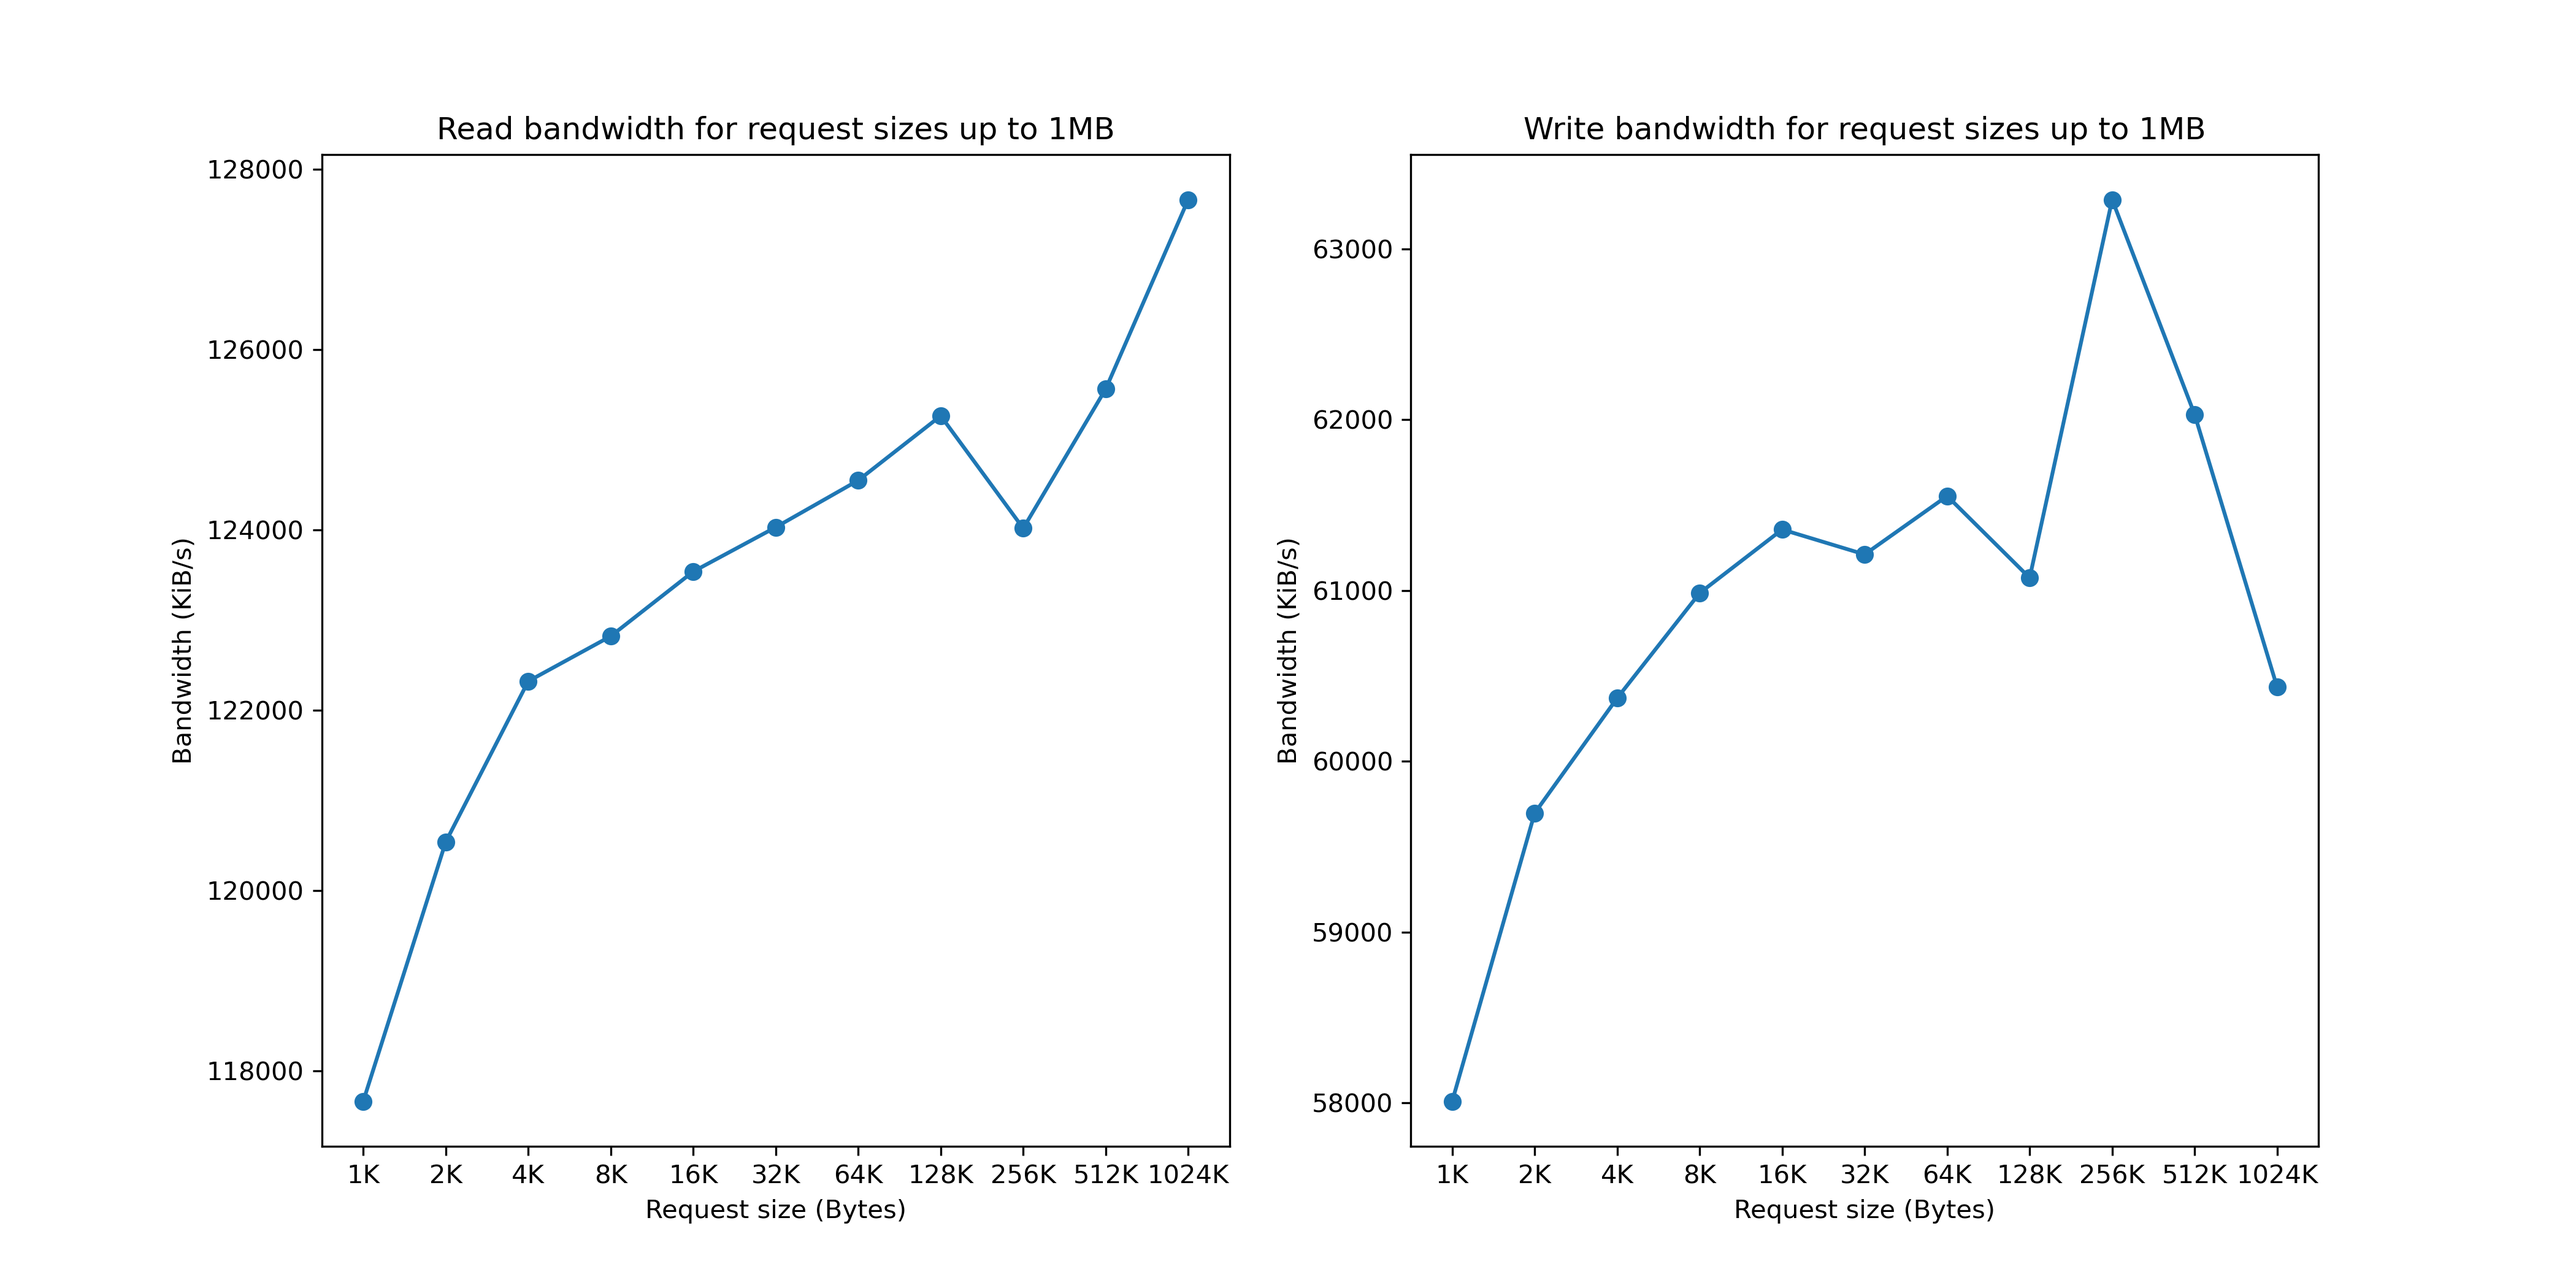
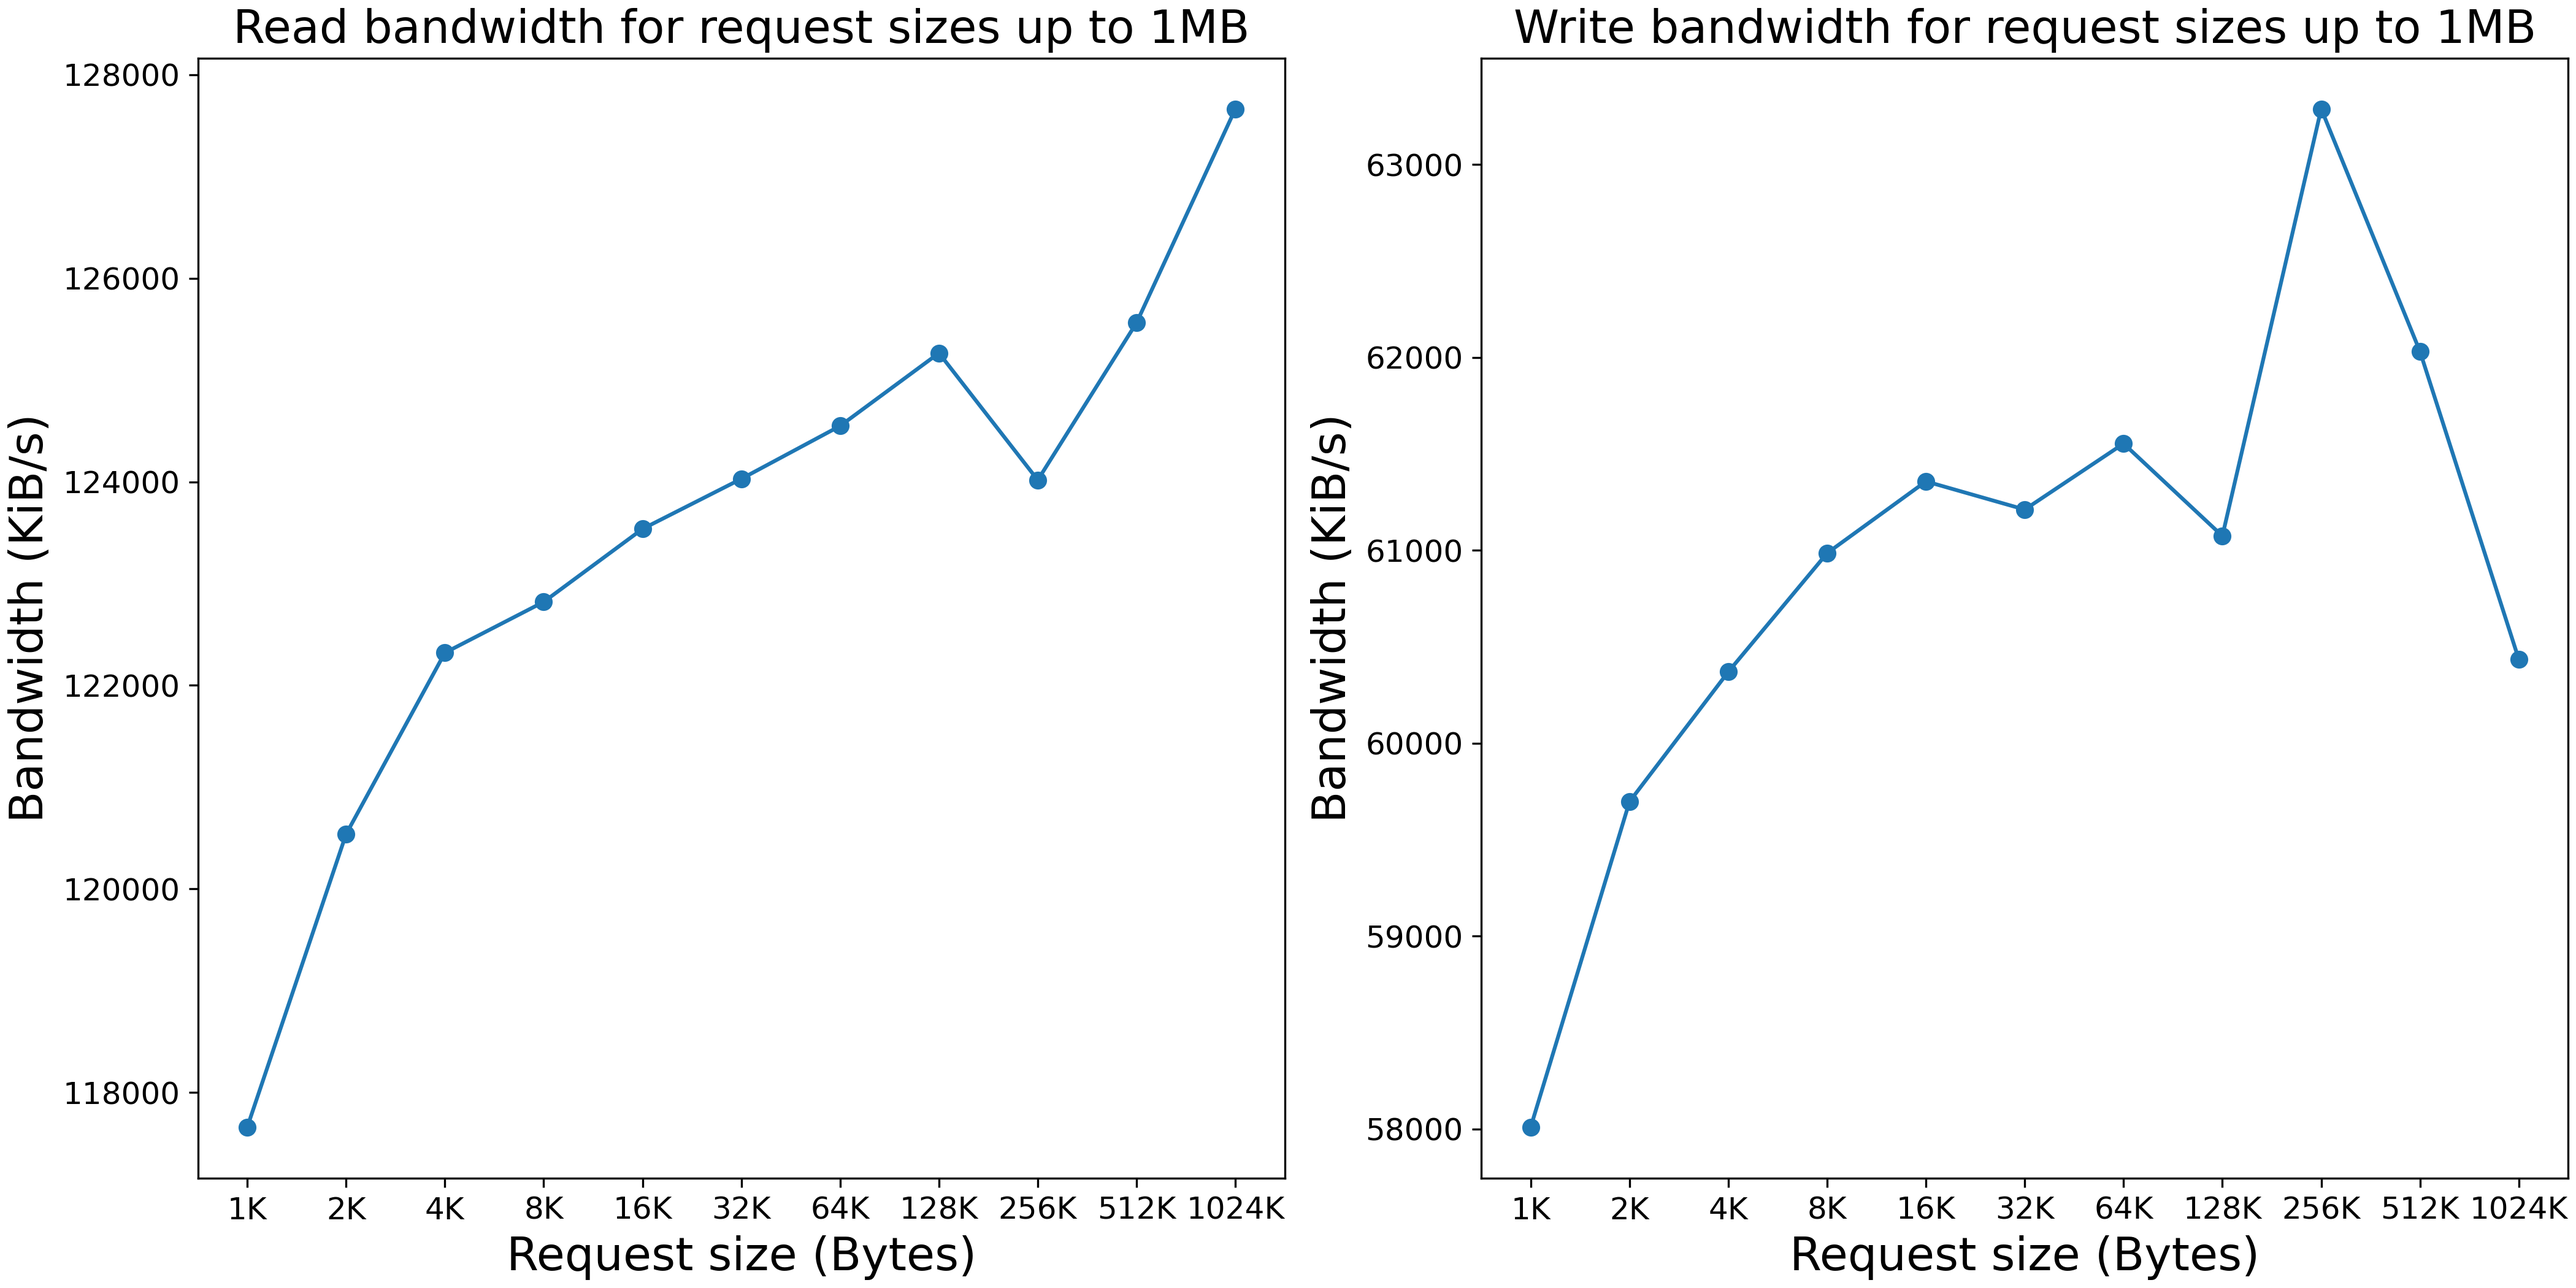
Question 3 - Added a plot for the lantencies in question 3 - Created a single file for the common plot parameters - Modifed the plotting scripts accordingly

diff --git a/question_1/graph.py b/question_1/graph.py
@@ -33,32 +33,31 @@ args.random.close()
 seq_read_bw, seq_write_bw = get_rw_bw(seq_data)
 rand_read_bw, rand_write_bw = get_rw_bw(rand_data)
 
+plt.style.use("../plot_params.mplstyle")
+
 # First plot. Two figures, one for sequential the other for random
-fig, (ax_read, ax_write) = plt.subplots(1, 2, figsize=(12, 6))
+fig, (ax_read, ax_write) = plt.subplots(1, 2, figsize=(14, 7), layout="constrained")
 
 x = np.arange(0, 101, 12.5)
 ax_read.plot(x, seq_read_bw, marker="o", label="sequential")
 ax_read.plot(x, rand_read_bw, marker="o", label="random")
 
 ax_read.set_title("Bandwidth for I/O operations with 100 to 0% of reads")
-ax_read.set_xlabel("Percentage of reads",fontsize=18)
-ax_read.set_ylabel("Bandwidth (KiB/s)",fontsize=18)
+ax_read.set_xlabel("Percentage of reads")
+ax_read.set_ylabel("Bandwidth (KiB/s)")
 ax_read.set_xticks(x)
 ax_read.set_xticklabels([f"{100 - p}%" for p in x])
-ax_read.legend(fontsize=18)
-fig.tight_layout()
-#ax.set_yscale("log")
+ax_read.legend()
 
 ax_write.plot(x, seq_write_bw, marker="o", label="sequential")
 ax_write.plot(x, rand_write_bw, marker="o", label="random")
 
 ax_write.set_title("Bandwidth for I/O operations with 0 to 100% of writes")
-ax_write.set_xlabel("Percentage of writes",fontsize=18)
-ax_write.set_ylabel("Bandwidth (KiB/s)",fontsize=18)
+ax_write.set_xlabel("Percentage of writes")
+ax_write.set_ylabel("Bandwidth (KiB/s)")
 ax_write.set_xticks(x)
 ax_write.set_xticklabels([f"{p}%" for p in x])
-ax_write.legend(fontsize=18)
-fig.tight_layout()
+ax_write.legend()
 
 if args.output is not None:
     plt.savefig("separated_" + args.output, dpi=300)
@@ -71,21 +70,20 @@ fig, ax = plt.subplots(1, figsize=(8, 6), layout="constrained")
 
 x = np.arange(0, 101, 12.5)
 
-a=ax.plot(x, seq_read_bw, marker="o", label="sequential read")#, color="#1f77b4")
-b=ax.plot(x, rand_read_bw, marker="o", label="random read")#, color="#ff7f0e")
+ax.plot(x, seq_read_bw, marker="o", label="sequential read")
+ax.plot(x, rand_read_bw, marker="o", label="random read")
 
-c=ax.plot(x, seq_write_bw, marker="o", label="sequential write")#, color="#1f77b4", linestyle="dashed")
-d=ax.plot(x, rand_write_bw, marker="o", label="random write")#, color="#ff7f0e", linestyle="dashed")
+ax.plot(x, seq_write_bw, marker="o", label="sequential write")
+ax.plot(x, rand_write_bw, marker="o", label="random write")
 
-ax.set_title("Bandwidth for I/O operations with 100 to 0% of reads",fontsize=18)
-ax.set_xlabel("Percentage of reads",fontsize=18)
-ax.set_ylabel("Bandwidth (KiB/s)",fontsize=18)
+ax.set_title("Bandwidth for I/O operations with 100 to 0% of reads")
+ax.set_xlabel("Percentage of reads")
+ax.set_ylabel("Bandwidth (KiB/s)")
 ax.set_xticks(x)
 ax.set_xticklabels([f"{p}%" for p in x])
 ax.set_yscale("symlog")
 ax.set_ylim(0, 1.1 * ax.get_ylim()[1])
-ax.legend(loc="lower center",fontsize=18)
-fig.tight_layout()
+ax.legend(loc="lower center")
 
 if args.output is not None:
     plt.savefig("merged_" + args.output, dpi=300)

diff --git a/question_3/graph.py b/question_3/graph.py
@@ -3,39 +3,43 @@
 import argparse
 import numpy as np
 import matplotlib.pyplot as plt
-import json,glob
+import json
 
-def get_rw_bw(data):
-    read_bw = []
-    write_bw = []
-    
-    for job in data["jobs"]:
-        read_bw.append(job["read"]["bw"])
-        write_bw.append(job["write"]["bw"])
 
-    return read_bw, write_bw
+def get_read_lat_deciles(data):
+    job = data["jobs"][0]["read"]
+
+    comp_lat = [value for percentile, value in job["clat_ns"]["percentile"].items() if int(float(percentile)) % 10 == 0]
+    lat = [value for percentile, value in job["lat_ns"]["percentile"].items() if int(float(percentile)) % 10 == 0]
+        
+    return comp_lat, lat
 
 
 parser = argparse.ArgumentParser()
 parser.add_argument("input", type=argparse.FileType("r"), help="The file containing the json output")
-# parser.add_argument("-o", "--output", type=str, help="Output filename")
+parser.add_argument("-o", "--output", type=str, help="Output filename")
 args = parser.parse_args()
 
 # Extract useful data from the json output
-var_data = json.load(args.input)
+data = json.load(args.input)
 args.input.close()
 
-read_bw, write_bw = get_rw_bw(var_data)
-"""
-p = np.array([1,2,4])
-list=glob.glob("split_*.json")
-read = np.zeros(3)
+completion_latency, latency = get_read_lat_deciles(data)
 
-for i,cur in zip(range(3),list) :
-    a,_ = get_rw_bw(json.load(open(cur,"r")))
-    read[i] = a[0]
+plt.style.use("../plot_params.mplstyle")
 
-plt.plot(p,read)
-plt.show()
-"""
-print("Bandwidth: ", read_bw[0])
+fig, ax = plt.subplots(1, figsize=(7, 7), layout="constrained")
+
+x = np.arange(1, len(completion_latency) + 1)
+
+# ax.plot(x, completion_latency, marker="o", label="Completion latency")
+ax.plot(x, latency, marker="o")#, label="Latency")
+ax.set_title("Latencies for a task with different request sizes")
+ax.set_xlabel("Decile")
+ax.set_ylabel("Latency (ns)")
+# ax.legend()
+
+if args.output is not None:
+    plt.savefig(args.output, dpi=300)
+else:
+    plt.show()

diff --git a/question_4/graph.py b/question_4/graph.py
@@ -55,17 +55,19 @@ write_means = [summed_bw / int(nb_proc) for nb_proc, summed_bw in stats["summed_
 
 x = np.arange(len(nb_procs))
 
+plt.style.use("../plot_params.mplstyle")
+
 fig, (ax_read, ax_write) = plt.subplots(1, 2, figsize=(14, 7), layout="constrained")
 
 ax_read.bar(x, read_means)
-ax_read.set_title("Mean read bandwidth for jobs with 1 to 8 parallel processes")
+ax_read.set_title("Mean read bandwidth for jobs with 1 to 8 processes", wrap=True)
 ax_read.set_xlabel("Number of processes")
 ax_read.set_ylabel("Mean bandwidth (KiB/s)")
 ax_read.set_xticks(x)
 ax_read.set_xticklabels(nb_procs)
 
 ax_write.bar(x, write_means)
-ax_write.set_title("Mean write bandwidth for jobs with 1 to 8 parallel processes")
+ax_write.set_title("Mean write bandwidth for jobs with 1 to 8 processes", wrap=True)
 ax_write.set_xlabel("Number of processes")
 ax_write.set_ylabel("Mean bandwidth (KiB/s)")
 ax_write.set_xticks(x)
@@ -84,13 +86,13 @@ summed_write_bw = stats["summed_write"]
 fig, (ax_read, ax_write) = plt.subplots(1, 2, figsize=(14, 7), layout="constrained")
 
 ax_read.plot(x, summed_read_bw.values(), marker="o")
-ax_read.set_title("Cumulative read bandwidth for jobs with 1 to 8 parallel processes")
+ax_read.set_title("Cumulative read bandwidth for jobs with 1 to 8 parallel processes", wrap=True)
 ax_read.set_xlabel("Number of processes")
 ax_read.set_ylabel("Bandwidth (KiB/s)")
 ax_read.set_xticks(x)
 
 ax_write.plot(x, summed_write_bw.values(), marker="o")
-ax_write.set_title("Cumulative write bandwidth for jobs with 1 to 8 parallel processes")
+ax_write.set_title("Cumulative write bandwidth for jobs with 1 to 8 parallel processes", wrap=True)
 ax_write.set_xlabel("Number of processes")
 ax_write.set_ylabel("Bandwidth (KiB/s)")
 ax_write.set_xticks(x)

diff --git a/question_2/graph.py b/question_2/graph.py
@@ -32,24 +32,26 @@ block_sizes = []
 for job in var_data["jobs"]:
     block_sizes.append(job["job options"]["bs"])
 
+plt.style.use("../plot_params.mplstyle")
+
 # Plot the data
-fig, (ax_read, ax_write) = plt.subplots(1, 2, figsize=(14, 7))
+fig, (ax_read, ax_write) = plt.subplots(1, 2, figsize=(14, 7), layout="constrained")
 
 x = np.arange(len(var_read_bw))
 
 ax_read.plot(x, var_read_bw, marker="o")
 
 ax_read.set_title("Read bandwidth for request sizes up to 1MB")
-ax_read.set_xlabel("Request size (Bytes)",fontsize=18)
-ax_read.set_ylabel("Bandwidth (KiB/s)",fontsize=18)
+ax_read.set_xlabel("Request size (Bytes)")
+ax_read.set_ylabel("Bandwidth (KiB/s)")
 ax_read.set_xticks(x)
 ax_read.set_xticklabels(block_sizes)
 
 ax_write.plot(x, var_write_bw, marker="o")
 
 ax_write.set_title("Write bandwidth for request sizes up to 1MB")
-ax_write.set_xlabel("Request size (Bytes)",fontsize=18)
-ax_write.set_ylabel("Bandwidth (KiB/s)",fontsize=18)
+ax_write.set_xlabel("Request size (Bytes)")
+ax_write.set_ylabel("Bandwidth (KiB/s)")
 ax_write.set_xticks(x)
 ax_write.set_xticklabels(block_sizes)
 

diff --git a/question_3/bandwidth.py b/question_3/bandwidth.py
@@ -1,0 +1,41 @@
+#!/usr/bin/python3
+
+import argparse
+import numpy as np
+import matplotlib.pyplot as plt
+import json,glob
+
+def get_rw_bw(data):
+    read_bw = []
+    write_bw = []
+    
+    for job in data["jobs"]:
+        read_bw.append(job["read"]["bw"])
+        write_bw.append(job["write"]["bw"])
+
+    return read_bw, write_bw
+
+
+parser = argparse.ArgumentParser()
+parser.add_argument("input", type=argparse.FileType("r"), help="The file containing the json output")
+# parser.add_argument("-o", "--output", type=str, help="Output filename")
+args = parser.parse_args()
+
+# Extract useful data from the json output
+var_data = json.load(args.input)
+args.input.close()
+
+read_bw, write_bw = get_rw_bw(var_data)
+"""
+p = np.array([1,2,4])
+list=glob.glob("split_*.json")
+read = np.zeros(3)
+
+for i,cur in zip(range(3),list) :
+    a,_ = get_rw_bw(json.load(open(cur,"r")))
+    read[i] = a[0]
+
+plt.plot(p,read)
+plt.show()
+"""
+print("Bandwidth: ", read_bw[0])

diff --git a/README.md b/README.md
@@ -28,11 +28,14 @@ python3 graph.py size_q2_1proc.json -o blocksize_alt_question_2.png
 
 ```bash
 cd question_3
-python3 graph.py variable_percentage.json
-python3 graph.py split_q3_1proc.json
+python3 graph.py variable_percentage.json -o question_3.png
+python3 bandwidth.py variable_percentage.json
+python3 bandwidth.py split_q3_1proc.json
 ```
 
-Bandwidth:  42403
+![](./question_3/question_3.png)
+
+Bandwidth:  43759
 
 Bandwidth:  60452
 
